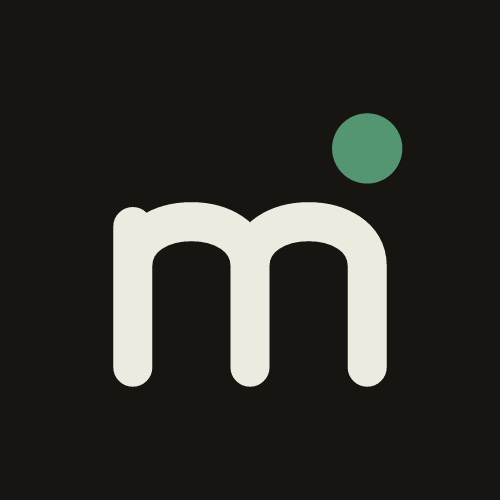
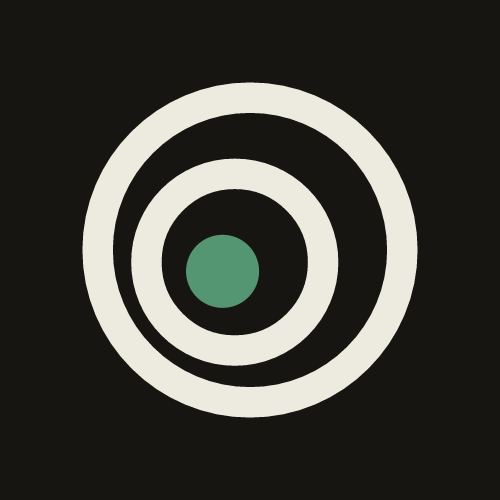
Brand: the Matumi rings mark, family rules and shared tokens
Part of the Matumi rebrand. The m with a canopy dot gives way to
off-centre growth rings around a canopy core. The wordmark moves to
Instrument Sans 600, the avatar is re-rendered, and tokens.json holds
the colour, type, spacing, radius and shadow tokens every product
starts from. The README sets out the family rules.

Changed region(s): [[0.15, 0.15, 0.84, 0.84]]

diff --git a/resources/brand/README.md b/resources/brand/README.md
@@ -1,31 +1,47 @@
 # Matumi Software brand
 
-The organisation uses the Matumi brand: a geometric lowercase m crowned with a canopy dot, canopy
-green on warm stone, dark first. Wordmarks are always lowercase (matumi, koppel, skakel); running
-text keeps the capitals.
+The organisation uses the Matumi brand: growth rings around a canopy core, after the matumi, a
+riverbank hardwood that holds firm in fast water. Canopy green on warm stone, dark first.
+Wordmarks are always lowercase (matumi, wildwood, grove, koppel, skakel, tweeling); running text
+keeps the capitals.
+
+## The family
+
+Every Matumi Software mark follows the same rules:
+
+- Drawn on a 64 grid at stroke 5 with round caps.
+- Exactly one canopy element; the rest is ink on light grounds and stone on dark grounds.
+- The app icon is the whole mark in paper `#FBF9F4` on a canopy `#2A6B4E` tile with a 14/64 corner
+  radius, the mark at 0.66 of the tile.
+- Clear space is half the mark's width on every side. No mark is drawn below 16 px.
+
+Each product keeps its own marks in its repo under `resources/design-system`: Wildwood and Grove
+in `wildwood`, then `koppel`, `skakel` and `tweeling`. Koppel's K keeps its original heavy
+construction, with only the circle in canopy.
 
 ## Files
 
 - `assets/Org/matumi-software-avatar.png` (500x500, from the SVG next to it): the organisation
   avatar on GitHub and the company icon elsewhere. The mark in stone `#EDEAE0` and canopy `#549572`
-  on char `#161512`. It is full bleed, and the mark stays inside the inscribed circle so a round
-  crop does not clip the dot.
+  on char `#161512`. It is full bleed, and the mark stays well inside the inscribed circle so a
+  round crop does not clip it.
 - `assets/Logos/matumi-mark.svg`, `matumi-mark-dark.svg`, `matumi-mark-mono.svg`: the mark for light
   grounds, dark grounds and single colour.
-- `assets/Logos/matumi-wordmark.svg` and `matumi-lockup-horizontal.svg`: "matumi" in Inter Tight 600
-  with the i in canopy. They load the font from the web, so convert the text to outlines before
-  using them outside a browser.
+- `assets/Logos/matumi-wordmark.svg` and `matumi-lockup-horizontal.svg`: "matumi" in Instrument Sans
+  600. They load the font from the web, so convert the text to outlines before using them outside a
+  browser.
+- `tokens.json`: the colour, type, spacing, radius and shadow tokens every product starts from,
+  with light and dark values and what each is for. A product adds its own tokens on top, such as
+  Koppel's device states.
 
 ## Colour and type
 
-| Token | Light | Dark |
-|---|---|---|
-| canopy | `#2A6B4E` | `#549572` |
-| river | `#2F6F74` | `#5FA0A6` |
-| page | `#FBF9F4` | `#161512` |
-| ink | `#1C1B18` | `#EDEAE0` |
+| Token | Light | Dark | Use |
+|---|---|---|---|
+| canopy (`accent`) | `#2A6B4E` | `#549572` | Each mark's canopy element and the one accent |
+| river | `#2F6F74` | `#5FA0A6` | A second colour in graphics and state, never an accent |
+| page (`bg-page`) | `#FBF9F4` | `#161512` | Backgrounds, never blue-black |
+| ink (`text-primary`) | `#1C1B18` | `#EDEAE0` | Text and the rest of each mark |
 
-Inter Tight 600 for the wordmark and display type, Inter for text, IBM Plex Mono for code.
-
-Each product keeps its own brand in its repo under `resources/`. Koppel and Skakel share this
-palette with their own marks and Instrument Sans.
+Instrument Sans for wordmarks (600) and text, JetBrains Mono for code, paths and identifiers.
+Sentence case, no exclamation marks, no emoji.
